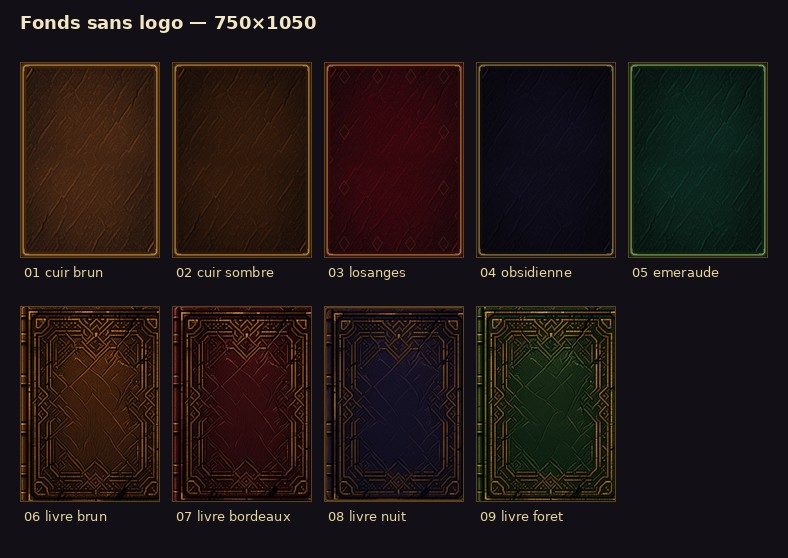
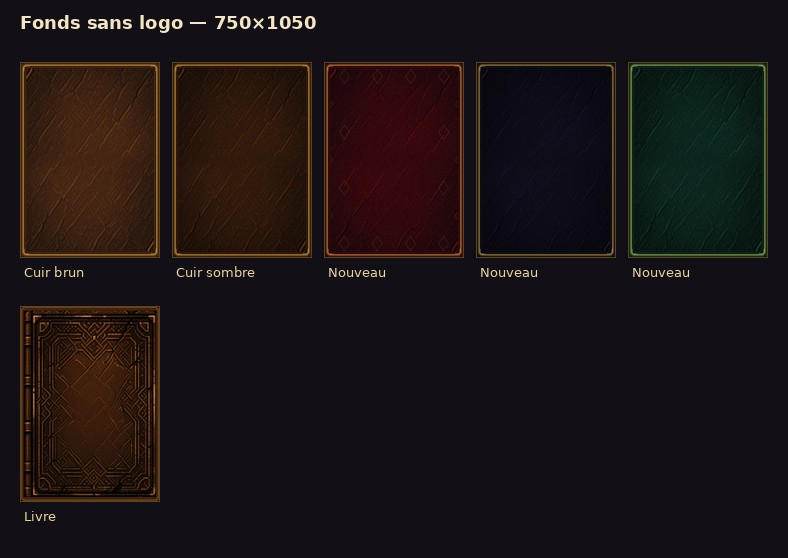
Fond livre cuir brun entier, cadre droit non coupé.
Un seul grimoire brun : tranche et bordure or visibles des deux côtés.

diff --git a/DosCartes/apercu.html b/DosCartes/apercu.html
@@ -23,8 +23,8 @@
     Logos extraits des dos Best (<code>01</code>, <code>03</code>, <code>03b</code>,
     <code>03e</code>, <code>07</code>, <code>09</code>, <code>42</code>) :
     tout ce qui n’est pas le logo est transparent. Fonds cuir plat 180°-symétriques
-    (<code>01</code>–<code>05</code>) et fonds <strong>style livre</strong> avec tranche
-    (<code>06</code>–<code>09</code>). N’importe quel logo se pose sur n’importe quel fond.
+    (<code>01</code>–<code>05</code>) et fond <strong>style livre</strong> cuir brun
+    avec tranche (<code>06</code>). N’importe quel logo se pose sur n’importe quel fond.
   </p>
   <h2>Logos (PNG transparent)</h2>
   <div class="grid wide"><figure><img class="chk" src="logos/03_titre_bicolore_apercu.png" alt="03 — PIXEL / OF GLORY bleu-or-rouge"><figcaption>03 — PIXEL / OF GLORY bleu-or-rouge<br><code>logos/03_titre_bicolore.png</code></figcaption></figure>
@@ -43,12 +43,7 @@
 <figure><img src="fonds/04_obsidienne.png" alt="Nouveau — obsidienne, grain cuir"><figcaption>Nouveau — obsidienne, grain cuir<br><code>fonds/04_obsidienne.png</code></figcaption></figure>
 <figure><img src="fonds/05_emeraude.png" alt="Nouveau — émeraude sombre"><figcaption>Nouveau — émeraude sombre<br><code>fonds/05_emeraude.png</code></figcaption></figure></div>
   <h2>Fonds style livre (tranche + cadre géométrique)</h2>
-  <div class="grid">
-<figure><img src="fonds/06_livre_brun.png" alt="Grimoire brun or"><figcaption>Livre brun — esprit du dos 01<br><code>fonds/06_livre_brun.png</code></figcaption></figure>
-<figure><img src="fonds/07_livre_bordeaux.png" alt="Grimoire bordeaux"><figcaption>Livre bordeaux<br><code>fonds/07_livre_bordeaux.png</code></figcaption></figure>
-<figure><img src="fonds/08_livre_nuit.png" alt="Grimoire bleu nuit"><figcaption>Livre bleu nuit<br><code>fonds/08_livre_nuit.png</code></figcaption></figure>
-<figure><img src="fonds/09_livre_foret.png" alt="Grimoire vert forêt"><figcaption>Livre vert forêt<br><code>fonds/09_livre_foret.png</code></figcaption></figure>
-  </div>
+  <div class="grid"><figure><img src="fonds/06_livre_brun.png" alt="Livre — grimoire cuir brun, cadre complet"><figcaption>Livre — grimoire cuir brun, cadre complet<br><code>fonds/06_livre_brun.png</code></figcaption></figure></div>
   <h2>Exemples logo + fond</h2>
   <div class="grid"><figure><img src="exemples/mix_03_sur_brun.png" alt="mix_03_sur_brun"><figcaption>mix 03 sur brun</figcaption></figure>
 <figure><img src="exemples/mix_laurier_sur_brun.png" alt="mix_laurier_sur_brun"><figcaption>mix laurier sur brun</figcaption></figure>
@@ -58,9 +53,6 @@
 <figure><img src="exemples/mix_01_sur_emeraude.png" alt="mix_01_sur_emeraude"><figcaption>mix 01 sur emeraude</figcaption></figure>
 <figure><img src="exemples/mix_03b_sur_obsidienne.png" alt="mix_03b_sur_obsidienne"><figcaption>mix 03b sur obsidienne</figcaption></figure>
 <figure><img src="exemples/mix_07_sur_bordeaux.png" alt="mix_07_sur_bordeaux"><figcaption>mix 07 sur bordeaux</figcaption></figure>
-<figure><img src="exemples/mix_laurier_sur_livre_brun.png" alt="mix_laurier_sur_livre_brun"><figcaption>mix laurier sur livre brun</figcaption></figure>
-<figure><img src="exemples/mix_griffon_sur_livre_bordeaux.png" alt="mix_griffon_sur_livre_bordeaux"><figcaption>mix griffon sur livre bordeaux</figcaption></figure>
-<figure><img src="exemples/mix_07_sur_livre_nuit.png" alt="mix_07_sur_livre_nuit"><figcaption>mix 07 sur livre nuit</figcaption></figure>
-<figure><img src="exemples/mix_03_sur_livre_foret.png" alt="mix_03_sur_livre_foret"><figcaption>mix 03 sur livre forêt</figcaption></figure></div>
+<figure><img src="exemples/mix_laurier_sur_livre_brun.png" alt="mix_laurier_sur_livre_brun"><figcaption>mix laurier sur livre brun</figcaption></figure></div>
 </body>
 </html>

diff --git a/DosCartes/scripts/separer_logos_fonds.py b/DosCartes/scripts/separer_logos_fonds.py
@@ -419,8 +419,8 @@ def write_apercu(logos: list, fonds: list, mixes: list[Path]) -> None:
     Logos extraits des dos Best (<code>01</code>, <code>03</code>, <code>03b</code>,
     <code>03e</code>, <code>07</code>, <code>09</code>, <code>42</code>) :
     tout ce qui n’est pas le logo est transparent. Fonds cuir plat 180°-symétriques
-    (<code>01</code>–<code>05</code>) et fonds <strong>style livre</strong> avec tranche
-    (<code>06</code>–<code>09</code>). N’importe quel logo se pose sur n’importe quel fond.
+    (<code>01</code>–<code>05</code>) et fond <strong>style livre</strong> cuir brun
+    avec tranche (<code>06</code>). N’importe quel logo se pose sur n’importe quel fond.
   </p>
   <h2>Logos (PNG transparent)</h2>
   <div class="grid wide">{logo_html}</div>
@@ -541,10 +541,7 @@ def main() -> None:
         ("03_losanges_bordeaux", "Nouveau — losanges bordeaux, centre vide"),
         ("04_obsidienne", "Nouveau — obsidienne, grain cuir"),
         ("05_emeraude", "Nouveau — émeraude sombre"),
-        ("06_livre_brun", "Livre — grimoire brun or (esprit du dos 01)"),
-        ("07_livre_bordeaux", "Livre — grimoire bordeaux"),
-        ("08_livre_nuit", "Livre — grimoire bleu nuit"),
-        ("09_livre_foret", "Livre — grimoire vert forêt"),
+        ("06_livre_brun", "Livre — grimoire cuir brun, cadre complet"),
     ]
     fonds_meta = [(n, c) for n, c in fonds_meta if (FONDS / f"{n}.png").exists()]
     for name, _ in fonds_meta:
@@ -569,15 +566,9 @@ def main() -> None:
 
     livres = {
         "06_livre_brun": (l01, 0.55),
-        "07_livre_bordeaux": (l42, 0.52),
-        "08_livre_nuit": (l07, 0.62),
-        "09_livre_foret": (l03, 0.78),
     }
     mix_names = {
         "06_livre_brun": "mix_laurier_sur_livre_brun",
-        "07_livre_bordeaux": "mix_griffon_sur_livre_bordeaux",
-        "08_livre_nuit": "mix_07_sur_livre_nuit",
-        "09_livre_foret": "mix_03_sur_livre_foret",
     }
     for fond_name, (logo, sc) in livres.items():
         fp = FONDS / f"{fond_name}.png"
@@ -616,7 +607,7 @@ Les `*_apercu.png` sont les mêmes logos sur damier (contrôle du alpha).
 
 ## Fonds (`fonds/`)
 
-Deux familles : cuir plat 180°-symétrique (`01`–`05`) et style livre avec tranche (`06`–`09`).
+Deux familles : cuir plat 180°-symétrique (`01`–`05`) et style livre cuir brun avec tranche (`06`).
 
 | Fichier | Origine |
 |---|---|
@@ -625,15 +616,12 @@ Deux familles : cuir plat 180°-symétrique (`01`–`05`) et style livre avec tr
 | `03_losanges_bordeaux.png` | nouveau |
 | `04_obsidienne.png` | nouveau |
 | `05_emeraude.png` | nouveau |
-| `06_livre_brun.png` | grimoire brun or, esprit du dos 01 |
-| `07_livre_bordeaux.png` | grimoire bordeaux |
-| `08_livre_nuit.png` | grimoire bleu nuit |
-| `09_livre_foret.png` | grimoire vert forêt |
+| `06_livre_brun.png` | grimoire cuir brun, cadre or complet (pas coupé) |
 
 Ouvrir `apercu.html` pour tout voir, y compris des exemples logo + fond.
 
 Regénérer les logos et les fonds 01–05 : `python3 DosCartes/scripts/separer_logos_fonds.py`
-(les fonds livre `06`–`09` ne sont pas écrasés).
+(le fond livre `06` n’est pas écrasé).
 """,
         encoding="utf-8",
     )

diff --git a/DosCartes/README.md b/DosCartes/README.md
@@ -20,10 +20,7 @@ Les `*_apercu.png` sont les mêmes logos sur damier (contrôle du alpha).
 
 ## Fonds (`fonds/`)
 
-Deux familles :
-
-- **Cuir plat** (`01`–`05`) : cadre or simple, 180°-symétriques, **sans** tranche de livre.
-- **Style livre** (`06`–`09`) : tranche à gauche, cadre géométrique or, centre vide pour le logo.
+Deux familles : cuir plat 180°-symétrique (`01`–`05`) et style livre cuir brun avec tranche (`06`).
 
 | Fichier | Origine |
 |---|---|
@@ -32,12 +29,9 @@ Deux familles :
 | `03_losanges_bordeaux.png` | nouveau |
 | `04_obsidienne.png` | nouveau |
 | `05_emeraude.png` | nouveau |
-| `06_livre_brun.png` | grimoire brun or, dans l’esprit du dos 01 |
-| `07_livre_bordeaux.png` | grimoire bordeaux |
-| `08_livre_nuit.png` | grimoire bleu nuit |
-| `09_livre_foret.png` | grimoire vert forêt |
+| `06_livre_brun.png` | grimoire cuir brun, cadre or complet (pas coupé) |
 
 Ouvrir `apercu.html` pour tout voir, y compris des exemples logo + fond.
 
-Regénérer les logos et les fonds 01–05 : `python3 DosCartes/scripts/separer_logos_fonds.py`  
-(les fonds livre `06`–`09` ne sont pas écrasés).
+Regénérer les logos et les fonds 01–05 : `python3 DosCartes/scripts/separer_logos_fonds.py`
+(le fond livre `06` n’est pas écrasé).
